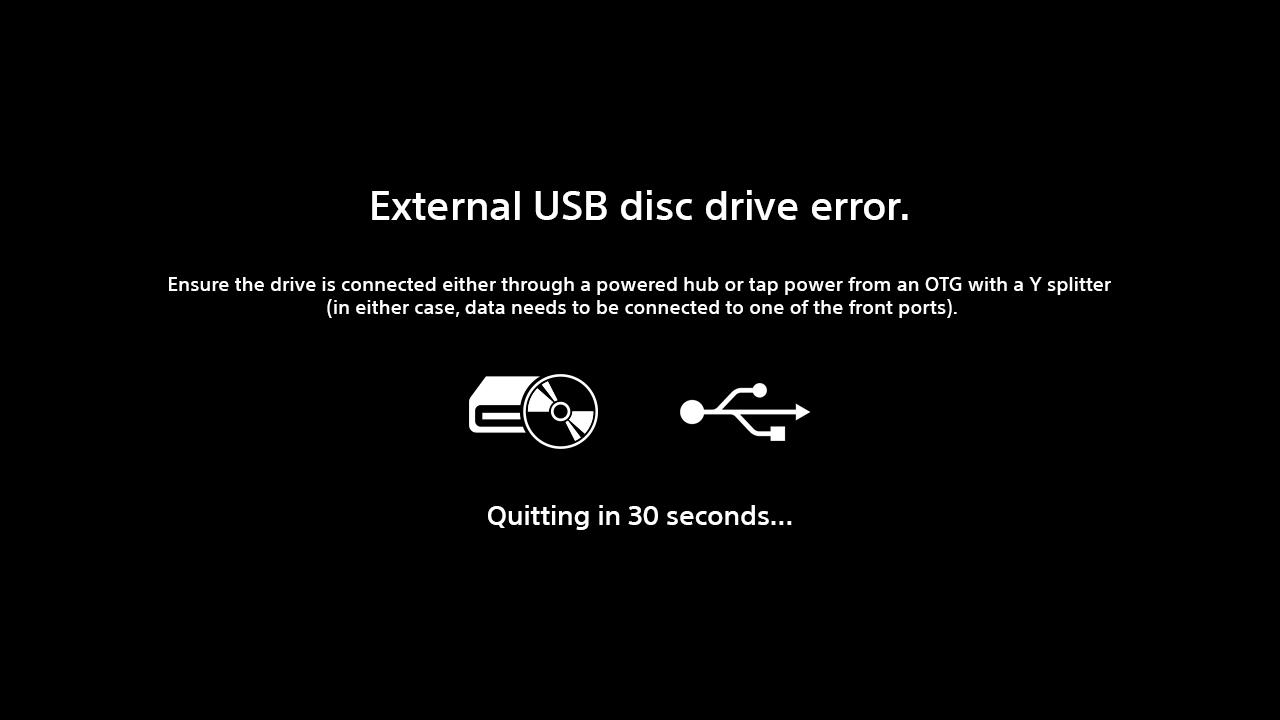
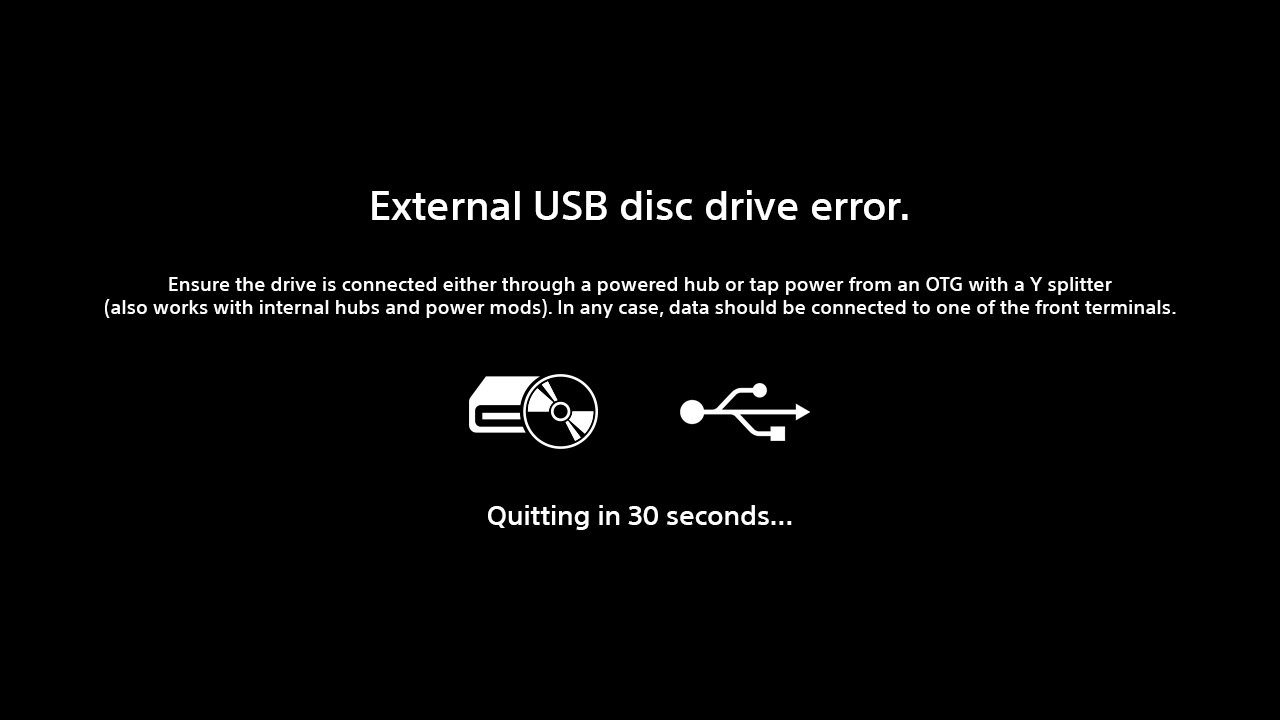
Updated titles and error screens for clarity and consistency

Changed region(s): [[0.0938, 0.3667, 0.9062, 0.4583]]

diff --git a/README.md b/README.md
@@ -9,7 +9,7 @@
       />
     </td>
     <td valign="middle">
-      <h1>PlayStation Classic Disc Launcher</h1>
+      <h1>PS1 Game Disc Launcher (for PlayStation Classic)</h1>
       <p><i>Adds support for playing real PlayStation discs with Project Eris on the PlayStation Classic with external USB disc drives.</i></p>
     </td>
   </tr>
